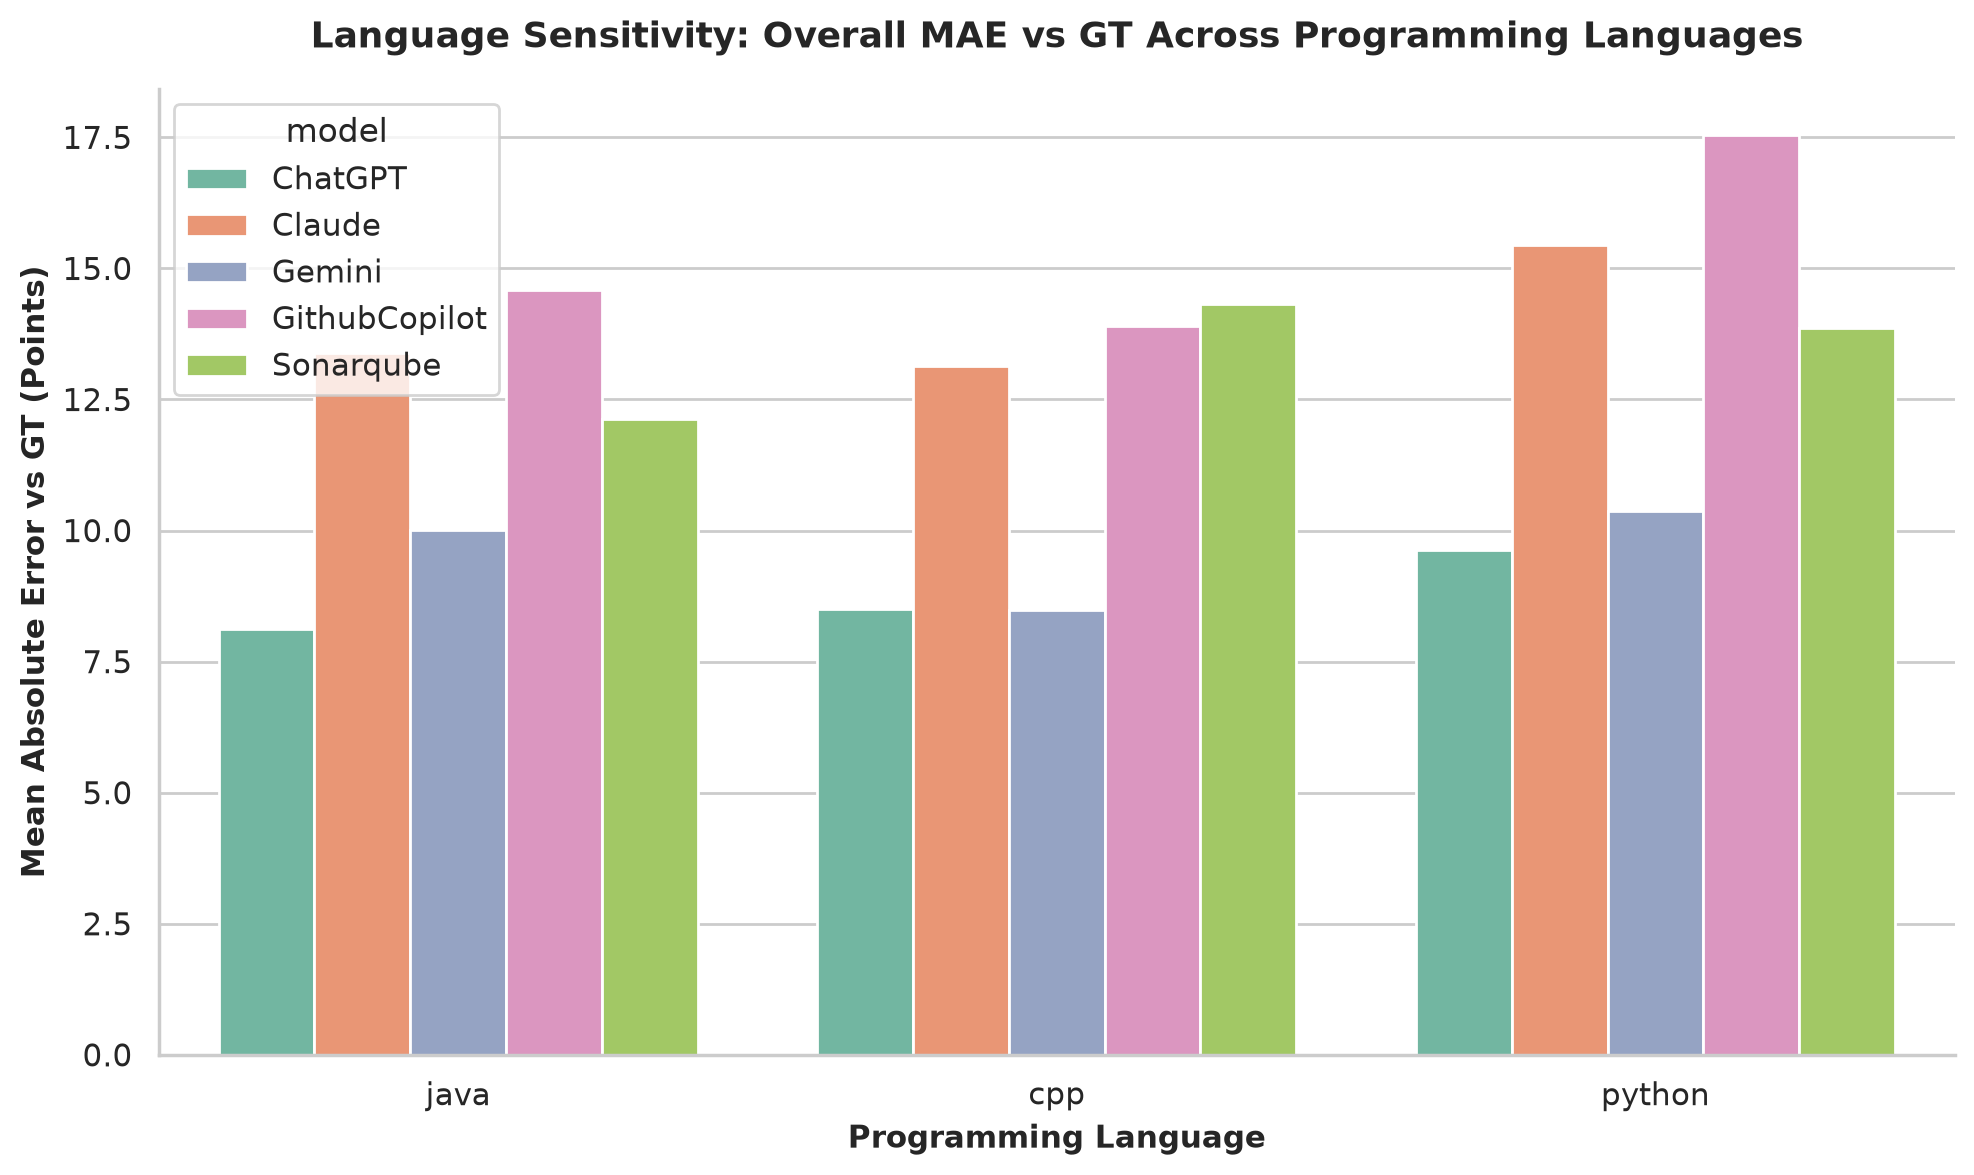
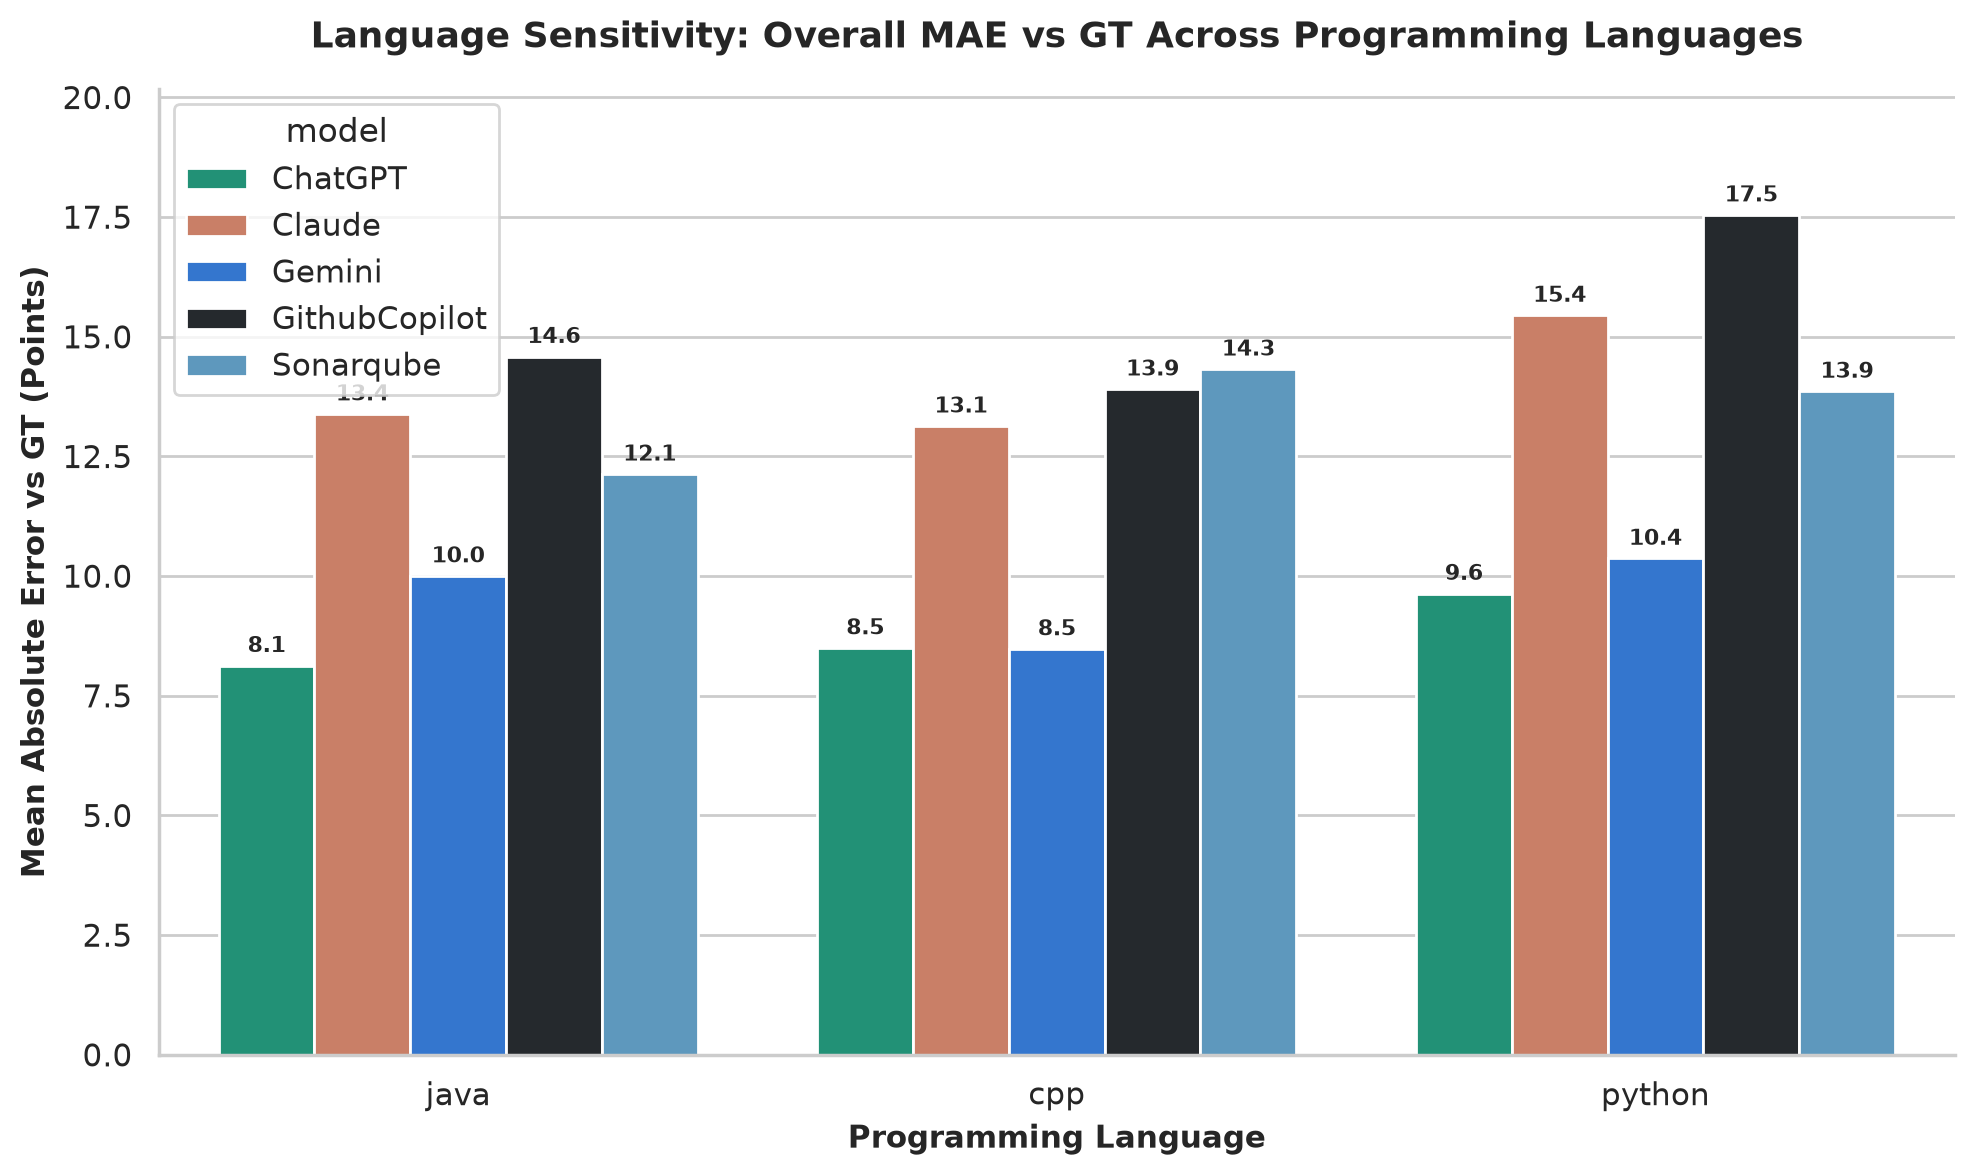
Updated colors and numbers for graph 4

diff --git a/output_charts/6_Summary/analyze_results.py b/output_charts/6_Summary/analyze_results.py
@@ -200,14 +200,41 @@ def generate_all_visualizations(df, output_dir='./output_charts'):
     plt.savefig(os.path.join(output_dir, '03_sonarqube_false_negatives.png'), dpi=CHART_DPI, bbox_inches='tight')
     plt.close()
 
-    # ----------------------------------------------------
+   # ----------------------------------------------------
     # Chart 4: Language Error Sensitivity (MAE per Language)
     # ----------------------------------------------------
     plt.figure(figsize=(10, 6))
-    ax = sns.barplot(data=df, x='language', y='overall_err', hue='model', errorbar=None, palette='Set2')
+    
+    # פלטת צבעים מותאמת אישית לכל מודל
+    model_colors = {
+        'Claude': '#D97757',        # כתום Anthropic
+        'ChatGPT': '#10A37F',       # ירוק OpenAI
+        'Gemini': '#1A73E8',        # כחול Google
+        'GithubCopilot': '#24292E', # אפור כהה / שחור GitHub
+        'Sonarqube': '#4E9BCD'     # תכלת SonarQube
+    }
+
+    ax = sns.barplot(
+        data=df, 
+        x='language', 
+        y='overall_err', 
+        hue='model', 
+        errorbar=None, 
+        palette=model_colors
+    )
+    
     ax.set_title("Language Sensitivity: Overall MAE vs GT Across Programming Languages", fontsize=13, fontweight='bold', pad=15)
     ax.set_xlabel("Programming Language", fontweight='bold')
     ax.set_ylabel("Mean Absolute Error vs GT (Points)", fontweight='bold')
+    
+    # הגדלת גבול הציר האנכי כדי שהערכים מעל העמודות הגבוהות לא ייחתכו
+    max_val = df.groupby(['language', 'model'])['overall_err'].mean().max()
+    ax.set_ylim(0, max_val * 1.15)
+    
+    # הוספת ערך מספרי מעל כל עמודה
+    for c in ax.containers:
+        ax.bar_label(c, fmt='%.1f', fontsize=8, fontweight='bold', padding=3)
+
     sns.despine()
     plt.tight_layout()
     plt.savefig(os.path.join(output_dir, '04_language_error_sensitivity.png'), dpi=CHART_DPI, bbox_inches='tight')
